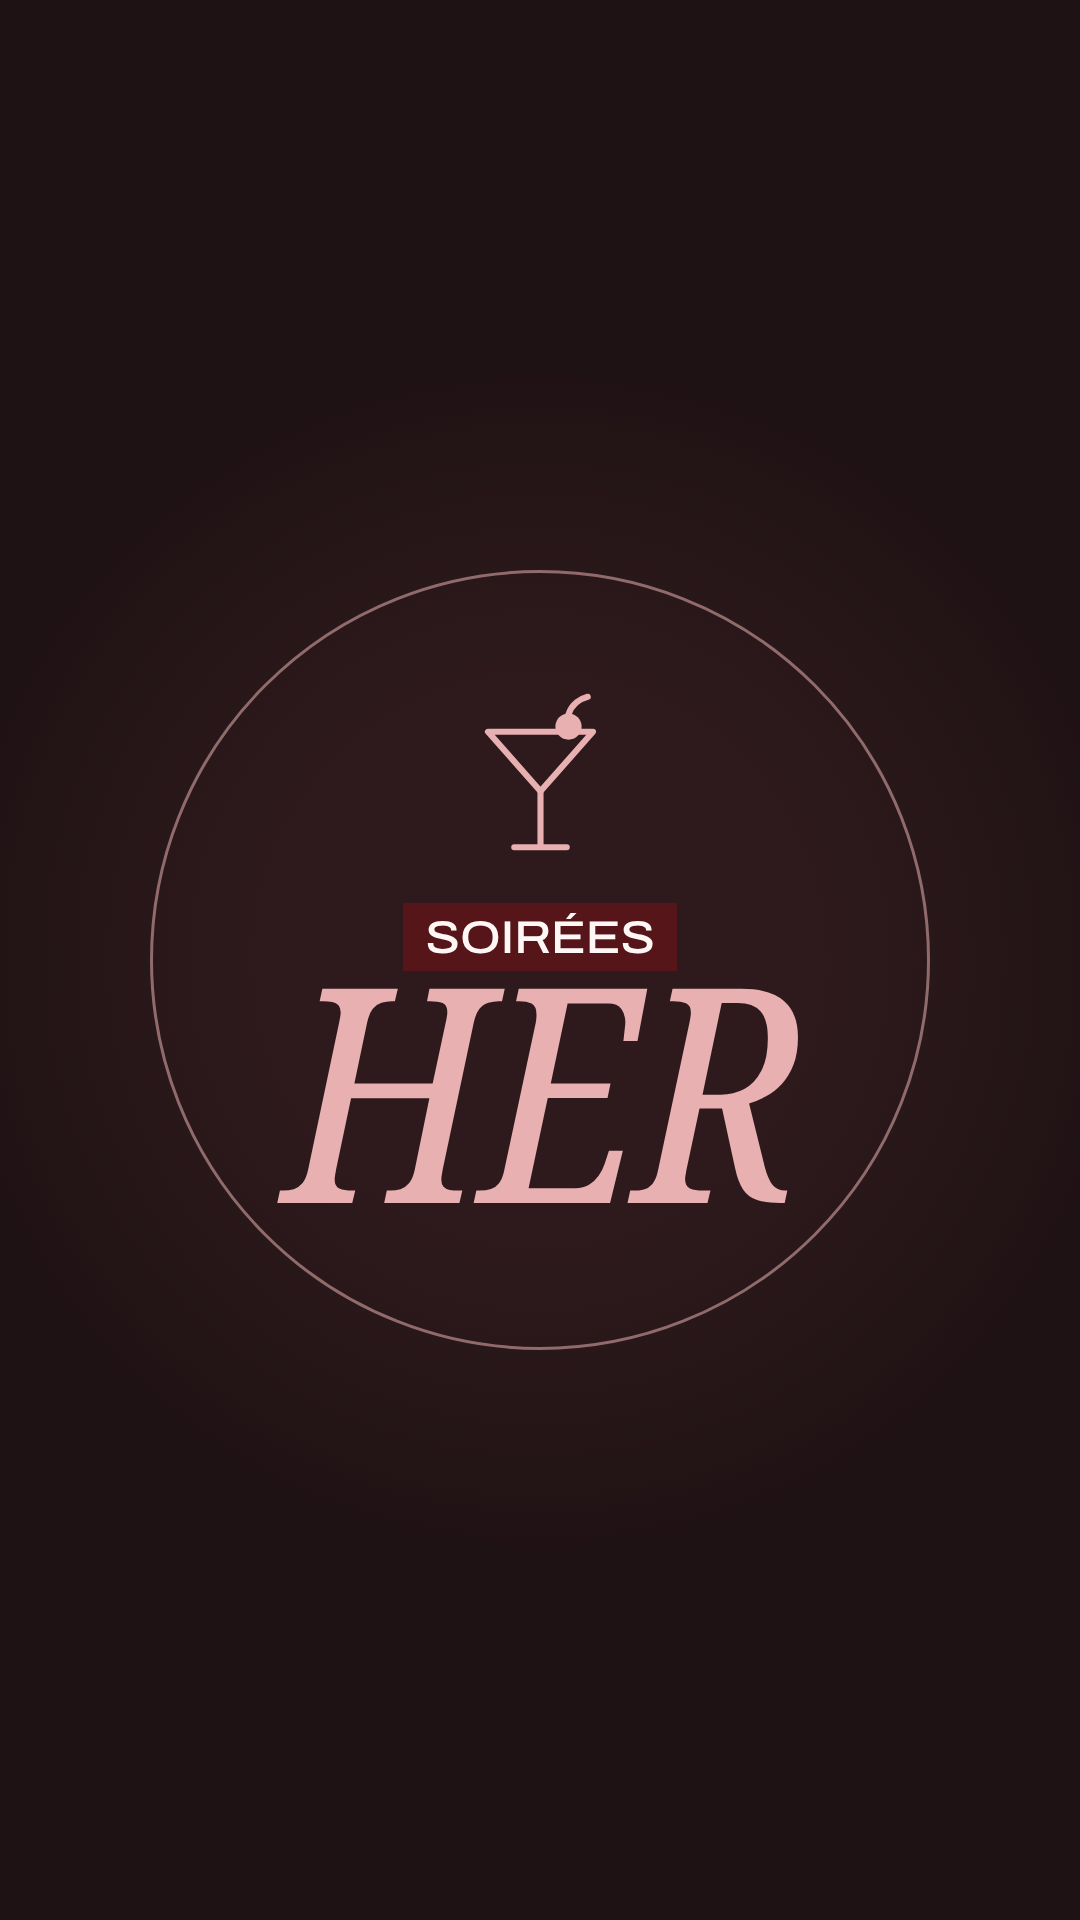
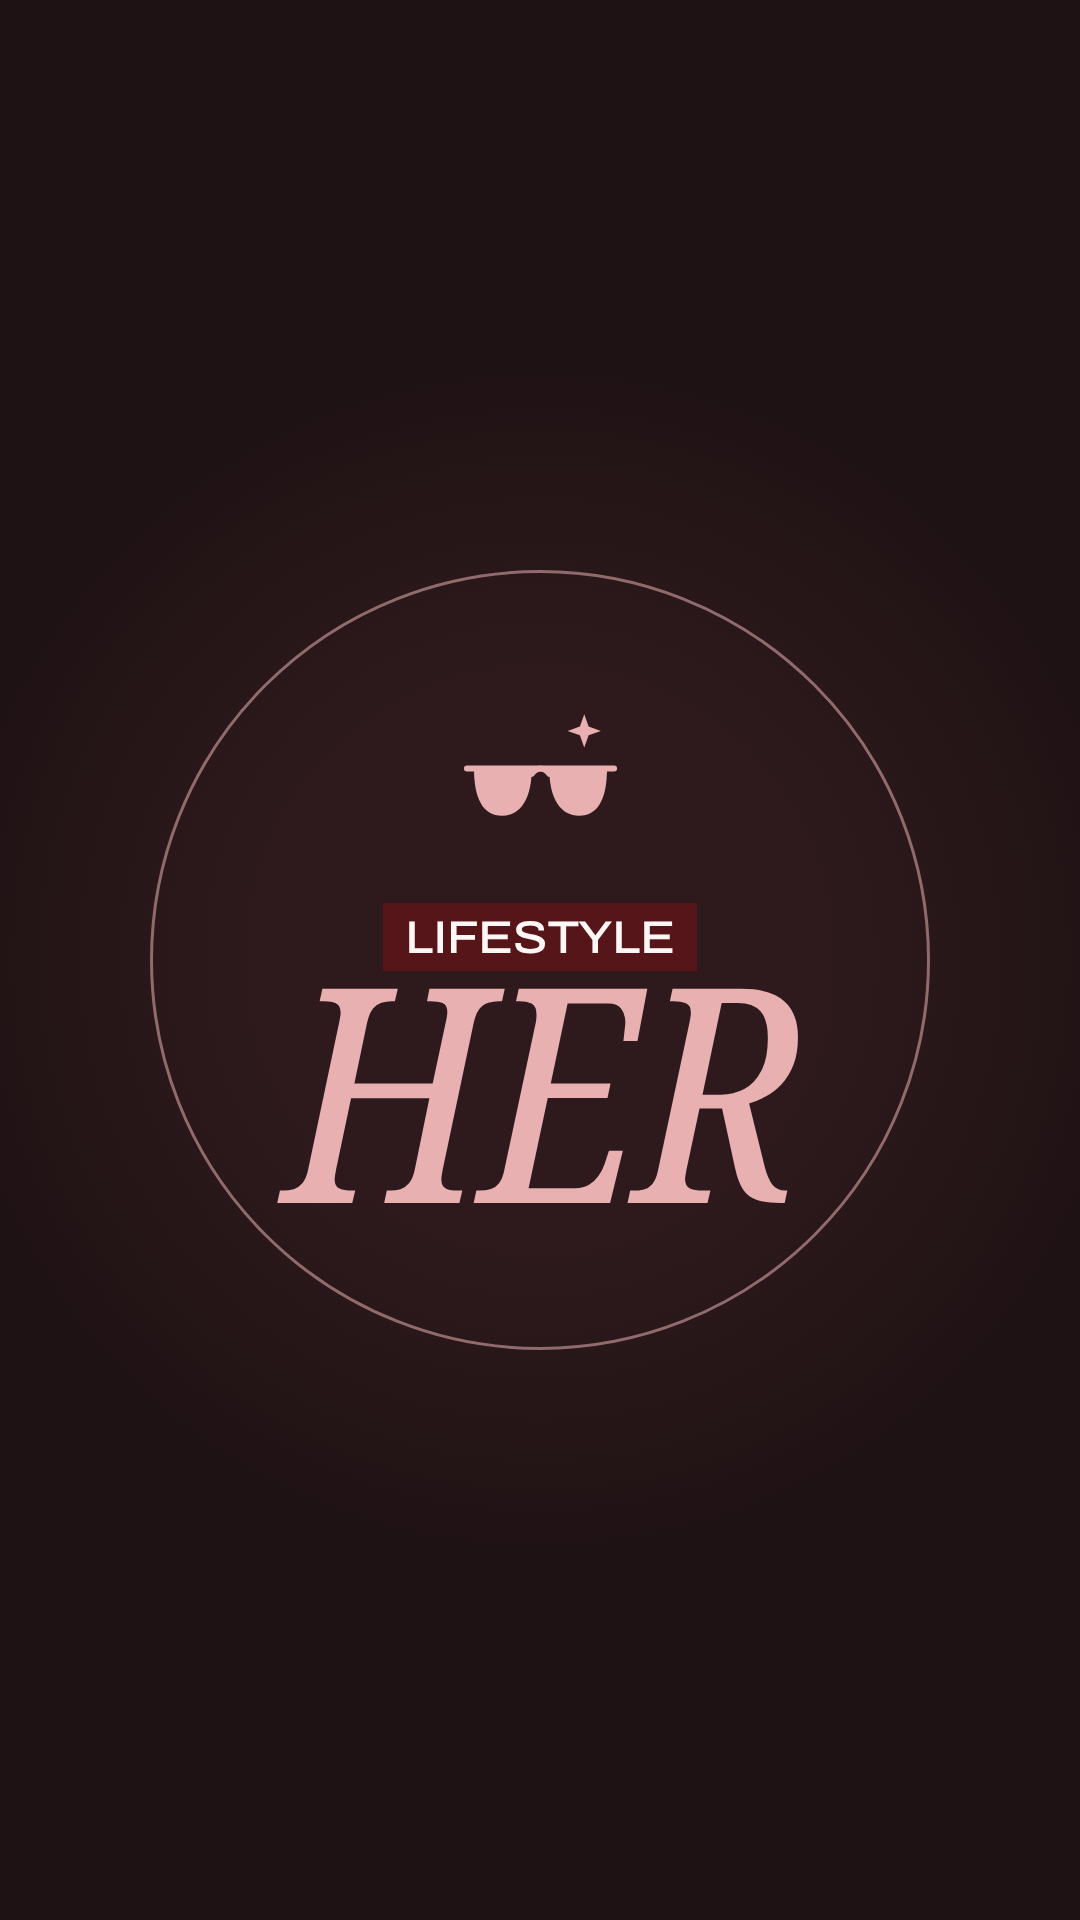
Bulle HER : étiquette Lifestyle et icône lunettes
Claude-Session: https://claude.ai/code/session_01M6s8wp3XpgKUKSTkvZAW4S

Changed region(s): [[0.3361, 0.3438, 0.6722, 0.5]]

diff --git a/couvertures-bulles/gen.js b/couvertures-bulles/gen.js
@@ -12,11 +12,12 @@ const hanger=`<svg viewBox="0 0 200 200"><path d="M86 52 a14 14 0 1 1 22 12 c-6 
 const matcha=`<svg viewBox="0 0 200 200"><path d="M24 96 H176 C176 146 144 176 100 176 C56 176 24 146 24 96Z" ${S}/><path d="M36 96 C70 84 130 84 164 96Z" fill="${R}" opacity=".85"/><path d="M78 76 C68 62 88 50 78 34 M104 74 C94 58 116 46 104 26 M130 76 C120 62 140 50 130 34" ${S} stroke-width="5" opacity=".8"/><path d="M148 140 C160 128 178 128 186 120 C184 136 168 150 148 140Z" fill="${R}"/></svg>`;
 const ballet=`<svg viewBox="0 0 200 200"><circle cx="104" cy="34" r="16" fill="${R}"/><path d="M100 56 L94 112 M96 66 C120 54 140 36 150 14 M96 70 C76 80 58 84 38 76 M94 112 L60 186 M94 112 C120 118 150 112 176 96" ${S}/><path d="M80 118 C88 104 104 104 112 118" ${S} stroke-width="5"/></svg>`;
 const column=`<svg viewBox="0 0 200 200"><circle cx="150" cy="44" r="22" fill="${R}"/><path d="M40 70 H130 M46 82 H124 M56 82 V164 M76 82 V164 M94 82 V164 M114 82 V164 M44 164 H126 M36 180 H134" ${S}/><path d="M36 70 C40 60 50 60 54 66 M134 70 C130 60 120 60 116 66" ${S} stroke-width="5"/></svg>`;
+const lunettes=`<svg viewBox="0 0 200 200"><path d="M16 92 H184" ${S}/><path d="M24 92 H90 C90 128 76 146 56 146 C34 146 24 126 24 92Z" fill="${R}"/><path d="M110 92 H176 C176 126 166 146 144 146 C124 146 110 128 110 92Z" fill="${R}"/><path d="M90 98 C96 90 104 90 110 98" ${S} stroke-width="5"/><path d="M150 30 l5 14 14 5 -14 5 -5 14 -5 -14 -14 -5 14 -5Z" fill="${R}"/></svg>`;
 // [fichier, mot (Noto Serif), taille, étiquette (CY Grotesk), icône]
 const covers=[
  ['me','Me',300,'Maena',mirror],
  ['collabs','Collabs',175,'Marques & co',collab],
- ['her','Her',300,'Soirées',martini],
+ ['her','Her',300,'Lifestyle',lunettes],
  ['becoming','Becoming',145,'Chaque lundi',cherry],
  ['annecy','Annecy',180,'À croquer',fork],
  ['sport','Sport',300,'Move',dumbbell],
